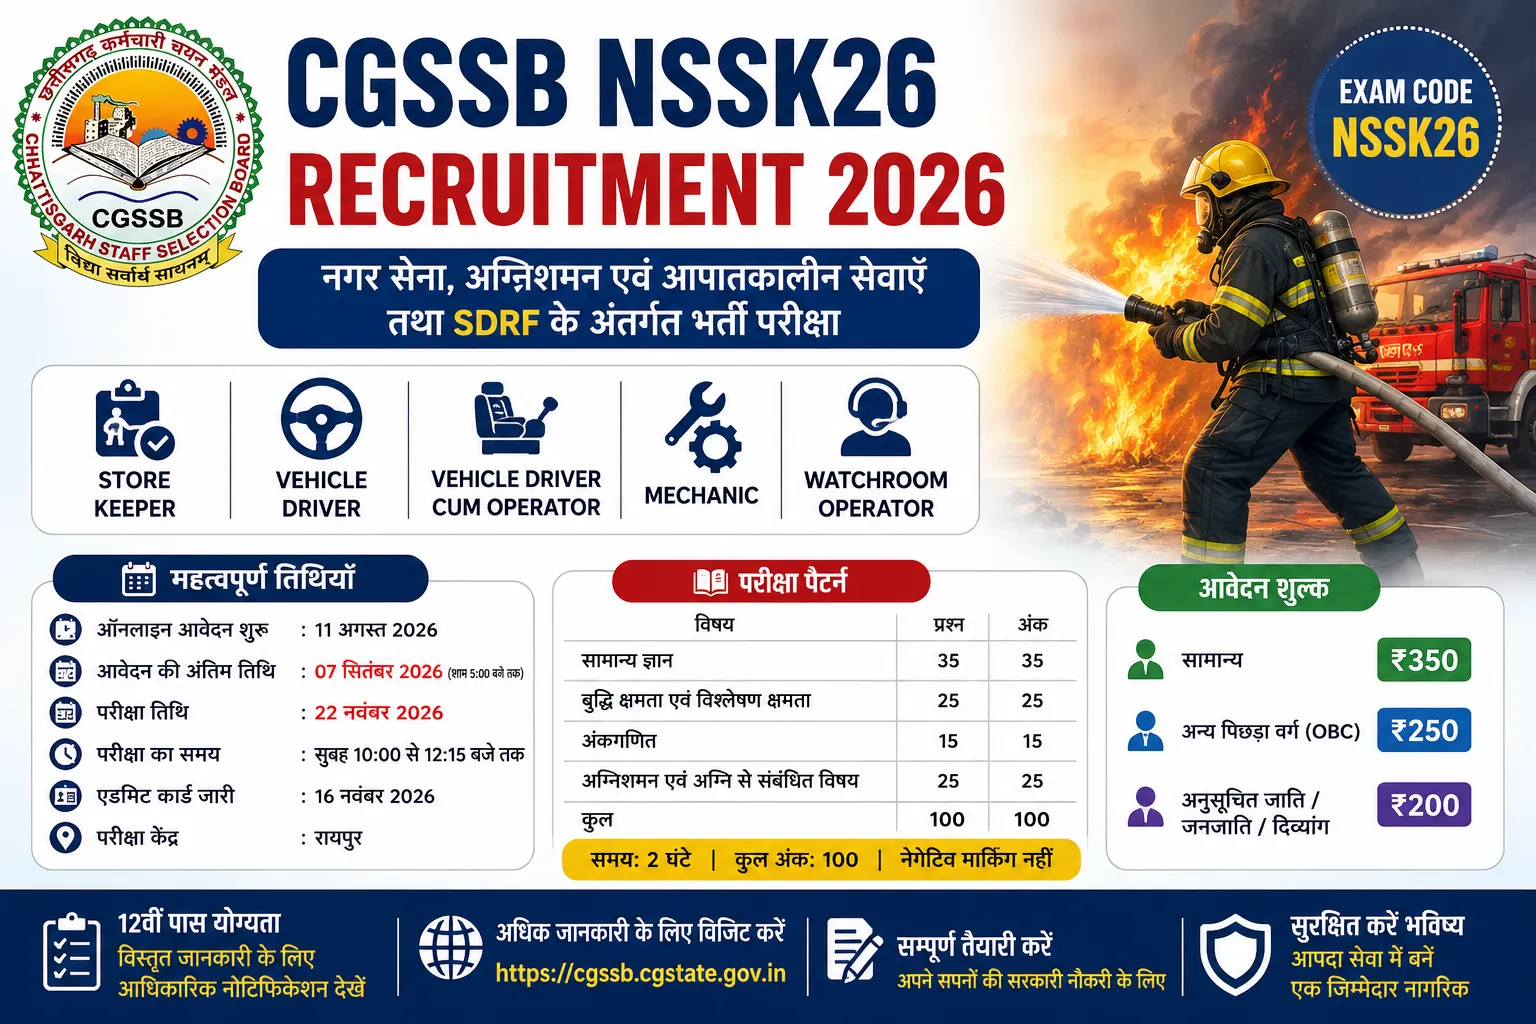
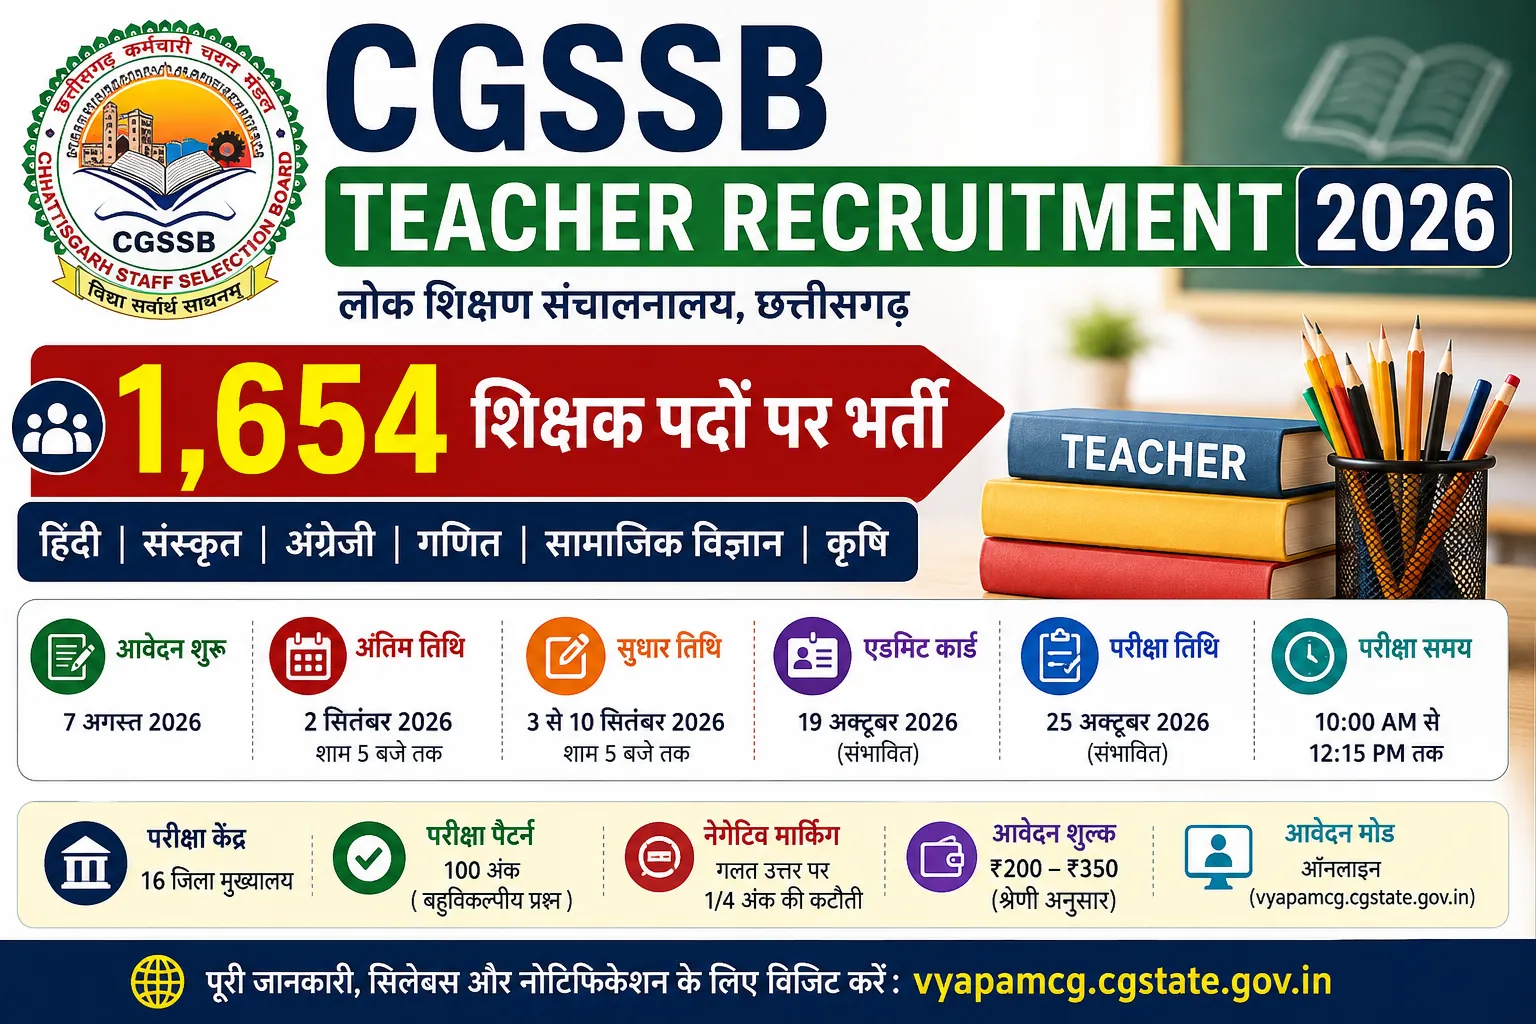
Update site URL to cgssb.com.in and convert Teacher image to WebP with SEO

diff --git a/app/jobs/cgssb-teacher-recruitment-2026/page.tsx b/app/jobs/cgssb-teacher-recruitment-2026/page.tsx
@@ -31,8 +31,8 @@ export default function TeacherRecruitmentArticlePage() {
         <div style={{ marginBottom: '30px', borderRadius: '10px', overflow: 'hidden', boxShadow: '0 4px 6px rgba(0,0,0,0.1)' }}>
           <Image 
             src="/cgssb-teacher-recruitment-2026.webp" 
-            alt="CGSSB Teacher Recruitment 2026: 1654 Posts"
-            title="CGSSB Teacher Recruitment 2026"
+            alt="CGSSB Teacher Recruitment 2026: 1654 Posts for Hindi, English, Maths, Sanskrit, Social Science, and Agriculture"
+            title="CGSSB Teacher Recruitment 2026 Notification and Subject Wise Vacancy"
             width={900}
             height={500}
             style={{ width: '100%', height: 'auto', display: 'block' }}
@@ -586,7 +586,7 @@ export default function TeacherRecruitmentArticlePage() {
           <div style={{ backgroundColor: '#f8d7da', borderLeft: '4px solid #dc3545', padding: '15px', marginBottom: '40px', borderRadius: '4px' }}>
             <h3 style={{ marginTop: '0', color: '#842029', fontSize: '1.2rem', marginBottom: '10px' }}>Disclaimer</h3>
             <p style={{ margin: '0', color: '#842029', fontSize: '0.95rem' }}>
-              <strong>cgssb.org</strong> एक independent informational website है। यह CGSSB, लोक शिक्षण संचालनालय, छत्तीसगढ़ सरकार या किसी अन्य सरकारी विभाग की official website नहीं है। इस article में दी गई जानकारी उपलब्ध official recruitment documents और examination instructions के आधार पर समझाने के उद्देश्य से दी गई है। आवेदन करने या परीक्षा से संबंधित कोई महत्वपूर्ण निर्णय लेने से पहले संबंधित official notification जरूर verify करें।
+              <strong>cgssb.com.in</strong> एक independent informational website है। यह CGSSB, लोक शिक्षण संचालनालय, छत्तीसगढ़ सरकार या किसी अन्य सरकारी विभाग की official website नहीं है। इस article में दी गई जानकारी उपलब्ध official recruitment documents और examination instructions के आधार पर समझाने के उद्देश्य से दी गई है। आवेदन करने या परीक्षा से संबंधित कोई महत्वपूर्ण निर्णय लेने से पहले संबंधित official notification जरूर verify करें।
             </p>
           </div>
           
